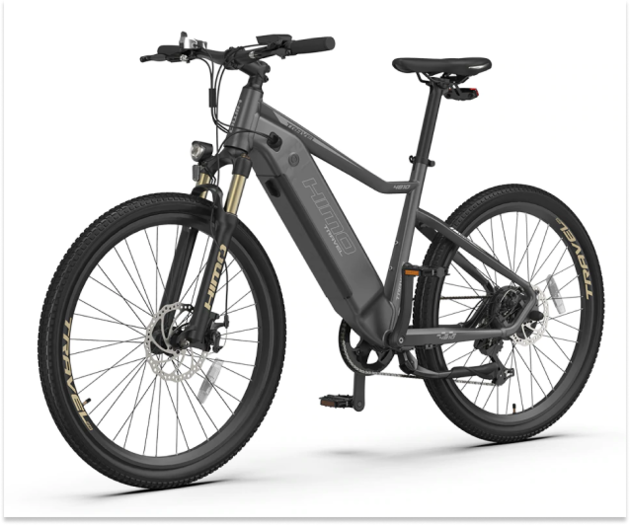
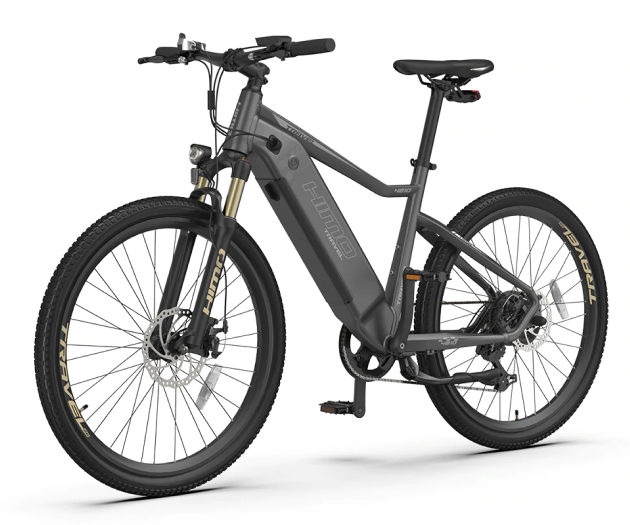
work slider

Changed region(s): [[0.0, 0.061, 0.9952, 1.0], [0.1206, 0.4267, 0.1508, 0.4571]]

diff --git a/js/script.js b/js/script.js
@@ -1,26 +1,85 @@
 'use strict'
 
+const imagesBike = document.querySelectorAll('.bike__slide img')
+const bike = document.querySelector('.bike__slide-img')
+const bikeDots = document.querySelectorAll('.bike__btn-group input')
+
 const images = document.querySelectorAll('.slide__line img')
 const slide = document.querySelector('.slide__line')
-const slideBtn = document.querySelectorAll('.slide__btn-group input')
+const slideDots = document.querySelectorAll('.slide__btn-group input')
+
 
 let i = 0
+let j = 0
+
+// const swiperTouch = (img, dots, index) => {
+//     dots[index].classList.remove('active')
+//     img[index].classList.remove('showed')
+//     index++
+//     if (index >= images.length) index = 0
+//     dots[index].classList.add('active')
+//     img[index].classList.add('showed')
+// }
+// const swiperDots = (img, dots) => {
+//     dots.forEach((btn, index) => {
+//         btn.addEventListener('click', () => {
+//             img.forEach(i => i.classList.remove('showed'))
+//             dots.forEach(i => i.classList.remove('active'))
+//             i = index
+//             img[i].classList.add('showed')
+//             dots[i].classList.add('active')
+//         })
+//     })
+// }
 
 slide.addEventListener('click', () => {
-    slideBtn[i].classList.remove('active')
+    slideDots[i].classList.remove('active')
     images[i].classList.remove('showed')
     i++
     if (i >= images.length) i = 0
+    slideDots[i].classList.add('active')
     images[i].classList.add('showed')
-    slideBtn[i].classList.add('active')
 })
 
-slideBtn.forEach((btn, index) => {
+slideDots.forEach((btn, index) => {
     btn.addEventListener('click', () => {
         images.forEach(i => i.classList.remove('showed'))
-        slideBtn.forEach(i => i.classList.remove('active'))
+        slideDots.forEach(i => i.classList.remove('active'))
         i = index
         images[i].classList.add('showed')
-        slideBtn[i].classList.add('active')
+        slideDots[i].classList.add('active')
     })
 })
+
+bike.addEventListener('click', () => {
+    bikeDots[j].classList.remove('active')
+    imagesBike[j].classList.remove('showed')
+    j++
+    if (j >= images.length) j = 0
+    bikeDots[j].classList.add('active')
+    imagesBike[j].classList.add('showed')
+})
+
+bikeDots.forEach((btn, index) => {
+    btn.addEventListener('click', () => {
+        imagesBike.forEach(i => i.classList.remove('showed'))
+        bikeDots.forEach(i => i.classList.remove('active'))
+        j = index
+        imagesBike[j].classList.add('showed')
+        bikeDots[j].classList.add('active')
+    })
+})
+
+let abc = 0
+
+const b1 = (a) => {
+    a = a + 2
+    // if (a > 5) a = 0
+    return a
+}
+for (let k = 0; k < 5; k++) {
+    b1(1)
+    console.log(b1(abc));
+}
+
+

diff --git a/css/style.css b/css/style.css
@@ -1,13 +1,13 @@
 @font-face {
   font-family: "Inter";
-  src: url("../Inter-Bold.woff2") format("woff2"), url("../Inter-Bold.woff") format("woff"), url("../Inter-Bold.ttf") format("truetype");
+  src: url("/fonts/Inter-Bold.woff2") format("woff2"), url("/fonts/Inter-Bold.woff") format("woff"), url("/fonts/Inter-Bold.ttf") format("truetype");
   font-weight: bold;
   font-style: normal;
   font-display: swap;
 }
 @font-face {
   font-family: "Inter";
-  src: url("../Inter-Regular.woff2") format("woff2"), url("../Inter-Regular.woff") format("woff"), url("../Inter-Regular.ttf") format("truetype");
+  src: url("/fonts/Inter-Regular.woff2") format("woff2"), url("/fonts/Inter-Regular.woff") format("woff"), url("/fonts/Inter-Regular.ttf") format("truetype");
   font-weight: normal;
   font-style: normal;
   font-display: swap;
@@ -45,6 +45,23 @@ li {
   font-weight: 700;
   line-height: 19px;
   margin-bottom: 10px;
+}
+
+.btn-group input {
+  padding: 0;
+  width: 4px;
+  height: 25px;
+  background: #131313;
+  border: none;
+  cursor: pointer;
+  border-radius: 1px;
+  list-style: none;
+  margin-bottom: 10px;
+  display: block;
+}
+.btn-group .active, .btn-group input:hover {
+  background: #ff4040;
+  transition: 0.5s;
 }
 
 .header__inner {
@@ -95,6 +112,18 @@ li {
 }
 .bike__slide-img {
   margin-bottom: 25px;
+  position: relative;
+}
+.bike__slide-img img {
+  width: 100%;
+  position: absolute;
+  right: 0;
+  opacity: 0;
+  transition: opacity 0.5s;
+}
+.bike__slide-img .showed {
+  opacity: 1;
+  position: static;
 }
 .bike__slide-inner {
   margin-bottom: 25px;
@@ -156,6 +185,15 @@ li {
 .bike__link:hover {
   background: #ff4040;
   transition: 0.5s;
+}
+.bike__slide-inner-btn {
+  position: relative;
+}
+.bike__btn-group {
+  position: absolute;
+  right: 0;
+  top: 0;
+  z-index: 10;
 }
 
 @media (max-width: 1200px) {
@@ -296,32 +334,16 @@ li {
 .slide {
   padding-top: 150px;
 }
-.slide__btn-group input {
-  padding: 0;
-  width: 4px;
-  height: 25px;
-  background: #131313;
-  border: none;
-  cursor: pointer;
-  border-radius: 1px;
-  list-style: none;
-  margin-bottom: 10px;
-  display: block;
-}
-.slide__btn-group .active {
-  background: #ff4040;
-}
 .slide__line {
   position: relative;
   max-width: 1150px;
 }
 .slide__line img {
   width: 100%;
-  right: 0;
-  top: 0;
   position: absolute;
+  right: 0;
   opacity: 0;
-  transition: opacity 1s;
+  transition: opacity 0.5s;
 }
 .slide__line .showed {
   opacity: 1;

diff --git a/html/index.html b/html/index.html
@@ -48,8 +48,16 @@
                 </div>
                 <div class="bike__slide">
                     <div class="bike__slide-inner">
+                        <div class="bike__slide-inner-btn">
+                            <div class="bike__btn-group btn-group">
+                                <input class="active" type="button">
+                                <input type="button">
+                                <input type="button">
+                                <input type="button">
+                            </div>
+                        </div>
                         <div class="bike__slide-img">
-                            <img src="../assets/bike-slide1.png" alt="bike">
+                            <img class="showed" src="../assets/bike-slide1.png" alt="bike">
                             <img src="../assets/bike-slide2.png" alt="bike">
                             <img src="../assets/bike-slide3.png" alt="bike">
                             <img src="../assets/bike-slide4.png" alt="bike">
@@ -246,10 +254,10 @@
     <section class="slide">
         <div class="container">
             <div class="slide__inner">
-                <div class="slide__btn-group">
-                    <input class="active" type="button" id="slide1">
-                    <input type="button" id="slide2">
-                    <input type="button" id="slide3">
+                <div class="slide__btn-group btn-group">
+                    <input class="active" type="button">
+                    <input type="button">
+                    <input type="button">
                 </div>
                 <div class="slide__line">
                     <img class="showed" src="../assets/slider1.jpg" alt="bike">

diff --git a/scss/common/_fonts.scss b/scss/common/_fonts.scss
@@ -1,8 +1,8 @@
 @font-face {
   font-family: 'Inter';
-  src: url('../Inter-Bold.woff2') format('woff2'),
-  url('../Inter-Bold.woff') format('woff'),
-  url('../Inter-Bold.ttf') format('truetype');
+  src: url('/fonts/Inter-Bold.woff2') format('woff2'),
+  url('/fonts/Inter-Bold.woff') format('woff'),
+  url('/fonts/Inter-Bold.ttf') format('truetype');
   font-weight: bold;
   font-style: normal;
   font-display: swap;
@@ -10,9 +10,9 @@
 
 @font-face {
   font-family: 'Inter';
-  src: url('../Inter-Regular.woff2') format('woff2'),
-  url('../Inter-Regular.woff') format('woff'),
-  url('../Inter-Regular.ttf') format('truetype');
+  src: url('/fonts/Inter-Regular.woff2') format('woff2'),
+  url('/fonts/Inter-Regular.woff') format('woff'),
+  url('/fonts/Inter-Regular.ttf') format('truetype');
   font-weight: normal;
   font-style: normal;
   font-display: swap;

diff --git a/scss/components/slide/slide.scss b/scss/components/slide/slide.scss
@@ -1,42 +1,21 @@
 .slide {
   padding-top: 150px;
 
-  &__btn-group {
-    input {
-      padding: 0;
-      width: 4px;
-      height: 25px;
-      background: $color-black;
-      border: none;
-      cursor: pointer;
-      border-radius: 1px;
-      list-style: none;
-      margin-bottom: 10px;
-      display: block;
-    }
-
-    .active {
-      background: $color-red;
-    }
-
-  }
   &__line {
     position: relative;
     max-width: 1150px;
 
     img {
       width: 100%;
-      right: 0;
-      top: 0;
       position: absolute;
+      right: 0;
       opacity: 0;
-      transition: opacity 1s;
+      transition: opacity .5s;
     }
 
     .showed {
       opacity: 1;
       position: static;
-
     }
   }
 

diff --git a/scss/components/bike/bike.scss b/scss/components/bike/bike.scss
@@ -17,6 +17,20 @@
 
     &-img {
       margin-bottom: 25px;
+      position: relative;
+
+      img {
+        width: 100%;
+        position: absolute;
+        right: 0;
+        opacity: 0;
+        transition: opacity .5s;
+      }
+
+      .showed {
+        opacity: 1;
+        position: static;
+      }
     }
 
     &-inner {
@@ -93,5 +107,15 @@
     transition: 0.5s;
   }
 
+  &__slide-inner-btn {
+    position: relative;
+  }
+
+  &__btn-group {
+    position: absolute;
+    right: 0;
+    top: 0;
+    z-index: 10;
+  }
 
 }

diff --git a/scss/common/common.scss b/scss/common/common.scss
@@ -34,6 +34,27 @@ li {
   margin-bottom: 10px;
 }
 
+.btn-group {
+  input {
+    padding: 0;
+    width: 4px;
+    height: 25px;
+    background: $color-black;
+    border: none;
+    cursor: pointer;
+    border-radius: 1px;
+    list-style: none;
+    margin-bottom: 10px;
+    display: block;
+  }
+
+  .active, input:hover {
+    background: $color-red;
+    transition: 0.5s;
+  }
+
+}
+
 //
 //.offcanvas {
 //  background: $color-three;
